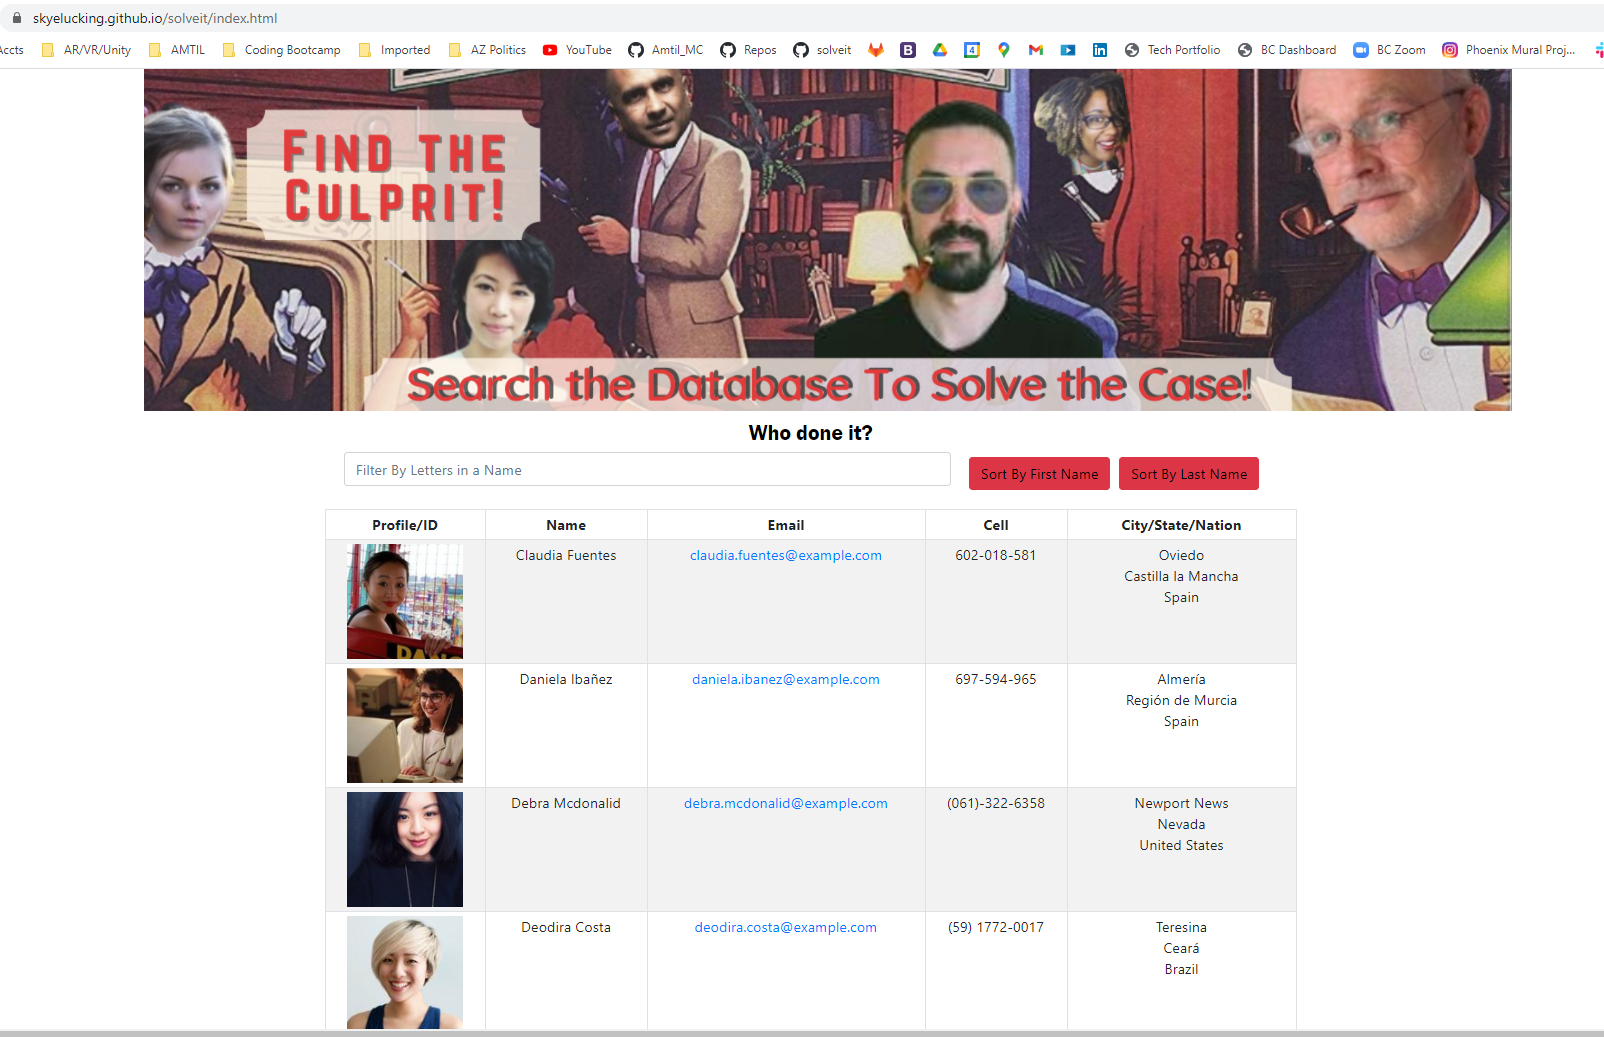
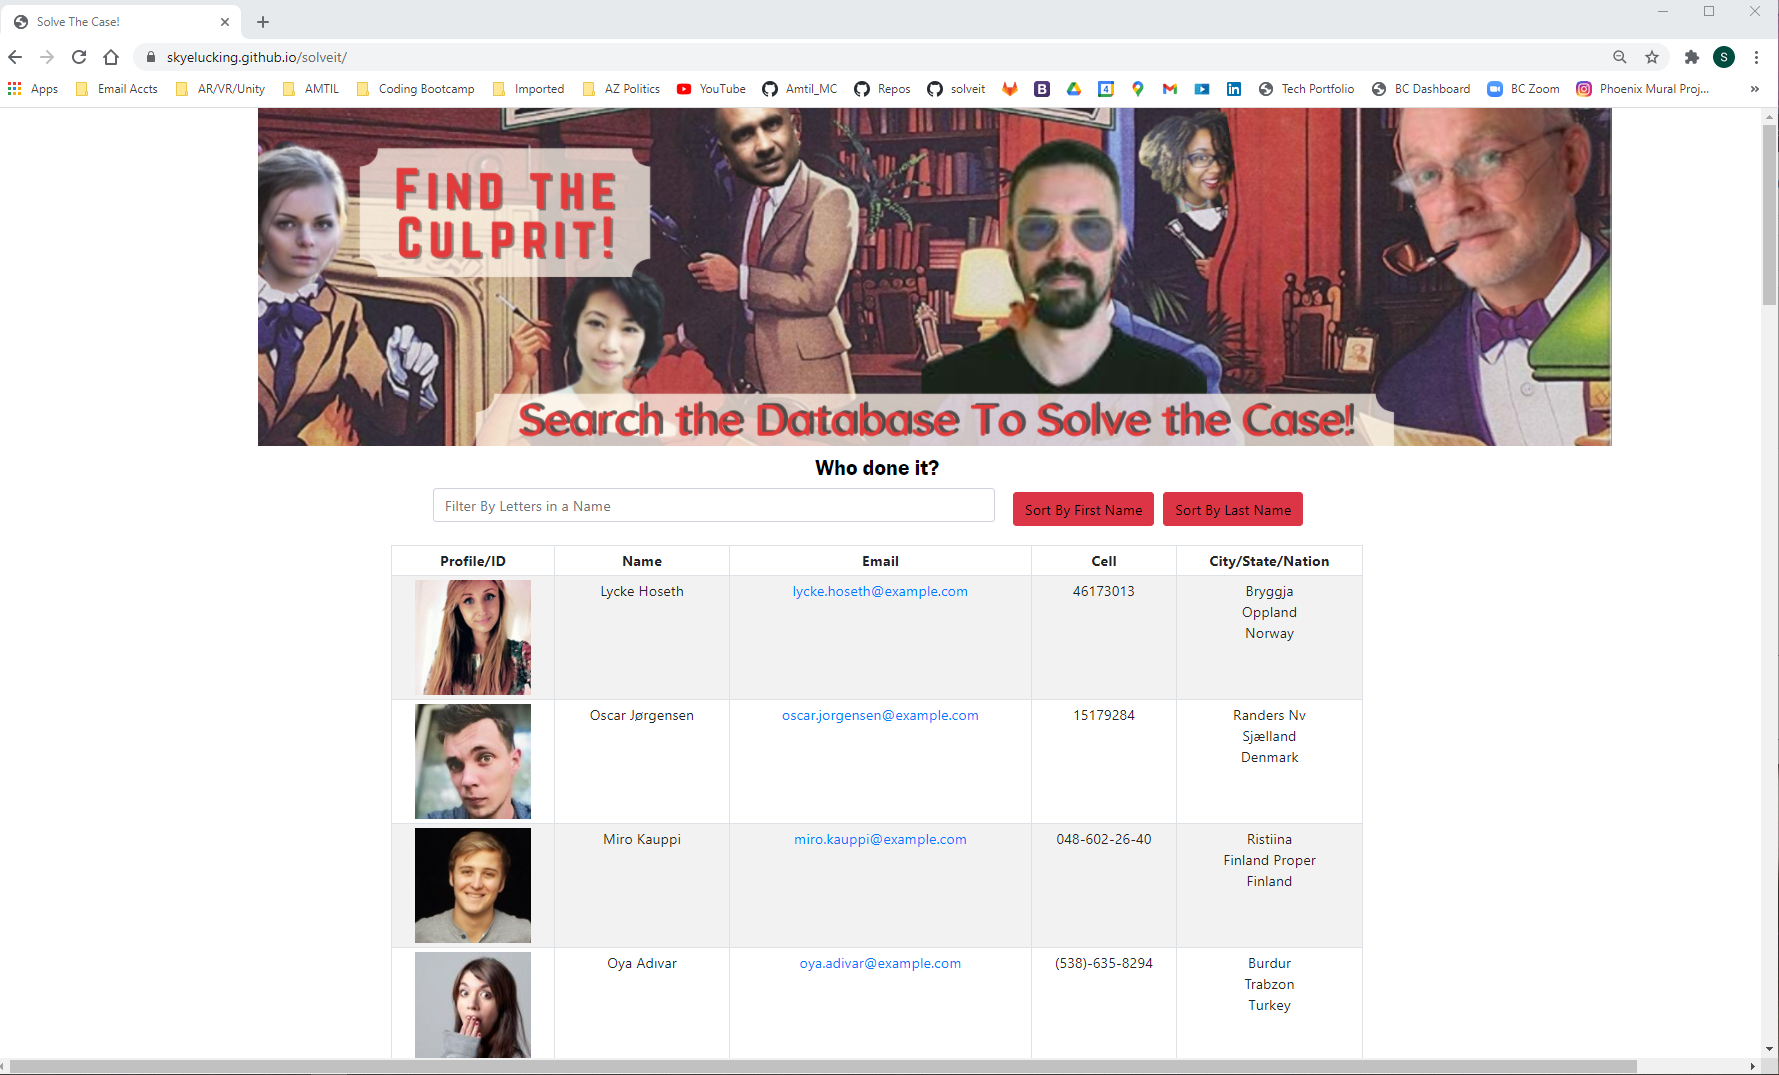
Updates

diff --git a/static/js/main.1ecd99c8.chunk.js b/static/js/main.1ecd99c8.chunk.js
@@ -1,0 +1,2 @@
+(this.webpackJsonpsolveit=this.webpackJsonpsolveit||[]).push([[0],{26:function(e,t,s){},27:function(e,t,s){},29:function(e,t,s){},49:function(e,t,s){"use strict";s.r(t);var r=s(1),a=s(17),n=s.n(a),c=(s(26),s(27),s(18)),i=s(19),o=s(21),l=s(20),h=(s(28),s(51)),j=s(52),d=(s(29),s(0));var u=function(e){var t=["Kitchen","Hall","Ballroom","Conservatory","Dining Room","Cellar","Billiard Room","Library","Lounge"],s=(Math.floor(Math.random()*t.length),["Knife","Candlestick","Revolver","Rope","Lead Pipe","Wrench"]),r=(Math.floor(Math.random()*s.length),e.suspects);return console.log(e),r.length?Object(d.jsx)("div",{className:"Table",children:Object(d.jsx)(h.a,{style:{color:"#000",textAlign:"center",alignItems:"center",display:"block"},children:Object(d.jsxs)(j.a,{striped:!0,bordered:!0,hover:!0,size:"sm",children:[Object(d.jsx)("thead",{children:Object(d.jsxs)("tr",{children:[Object(d.jsx)("th",{children:"Profile/ID"}),Object(d.jsx)("th",{children:"Name"}),Object(d.jsx)("th",{children:"Email"}),Object(d.jsx)("th",{children:"Cell"}),Object(d.jsx)("th",{children:"City/State/Nation"})]})}),Object(d.jsx)("tbody",{children:r.sort().map((function(e){return Object(d.jsxs)("tr",{children:[Object(d.jsxs)("td",{children:[Object(d.jsx)("img",{src:e.picture.large}),e.uuid]}),Object(d.jsxs)("td",{children:[e.name.first," ",e.name.last]}),Object(d.jsx)("td",{children:Object(d.jsx)("a",{href:"mailto:{suspect.email}",children:e.email})}),Object(d.jsx)("td",{children:e.cell}),Object(d.jsxs)("td",{children:[e.location.city,Object(d.jsx)("br",{}),e.location.state,Object(d.jsx)("br",{})," ",e.location.country,Object(d.jsx)("br",{})]})]})}))})]})})}):Object(d.jsx)("div",{children:"loading..."})},b=s(8),m=s.n(b),f="https://randomuser.me/api/?results=25",x={search:function(){return console.log(m.a.get(f)),m.a.get(f)}},O=function(e){Object(o.a)(s,e);var t=Object(l.a)(s);function s(){var e;Object(c.a)(this,s);for(var r=arguments.length,a=new Array(r),n=0;n<r;n++)a[n]=arguments[n];return(e=t.call.apply(t,[this].concat(a))).state={suspects:[],searchArray:[],search:"",sorted:!1},e.sortByFirstName=function(){var t,s=e.state,r=s.suspects,a=s.sorted,n=s.searchArray;!n===[]&&(t=n),t=a?r.sort((function(e,t){return t.name.first>e.name.first?1:t.name.first<e.name.first?-1:0})):r.sort((function(e,t){return e.name.first>t.name.first?1:e.name.first<t.name.first?-1:0})),e.setState({searchArray:t,sorted:!a,suspects:r})},e.sortByLastName=function(){var t,s=e.state,r=s.suspects,a=s.sorted,n=s.searchArray;!n===[]&&(t=n),t=a?r.sort((function(e,t){return t.name.last>e.name.last?1:t.name.last<e.name.last?-1:0})):r.sort((function(e,t){return e.name.last>t.name.last?1:e.name.last<t.name.last?-1:0})),e.setState({searchArray:t,sorted:!a,suspects:r})},e.handleSearch=function(t){var s=t.target.value.toLowerCase();e.setState({search:s})},e.searchBar=function(){var t=e.state.suspects,s=[];s===[]&&(s=t);for(var r=0;r<t.length;r++)t[r].name.first.toLowerCase().startsWith(e.state.Search)&&s.push(t[r]);e.setState({searchArray:s})},e}return Object(i.a)(s,[{key:"componentDidMount",value:function(){var e=this;x.search().then((function(t){console.log(t.data.results),e.setState({suspects:t.data.results,searchArray:t.data.results})}))}},{key:"render",value:function(){var e=this.state,t=e.suspects,s=void 0===t?[]:t,r=e.search;return console.log(s),Object(d.jsxs)("div",{children:[Object(d.jsx)("header",{children:Object(d.jsx)("h1",{style:{textAlign:"center",fontSize:"1.5em",fontFamily:"Franklin Gothic Medium",color:"black"},children:"Who done it?"})}),Object(d.jsxs)("div",{className:"row input-group mb-3 justify-content-center",children:[Object(d.jsx)("div",{className:"col-sm-4",children:Object(d.jsx)("input",{className:"form-control",type:"text",placeholder:"Filter By Letters in a Name","area-lable":"search suspects",onChange:this.handleSearch})}),Object(d.jsxs)("button",{className:"btn btn-danger",onClick:this.sortByFirstName,style:{color:"#000",margin:"5px"},children:[" ","Sort By First Name"]}),Object(d.jsxs)("button",{className:"btn btn-danger",onClick:this.sortByLastName,style:{color:"#000",margin:"5px"},children:[" ","Sort By Last Name"]})]}),Object(d.jsx)("div",{className:"container justify-content-center",children:Object(d.jsx)(u,{suspects:s.filter((function(e){return!r||(-1!==e.name.first.toLowerCase().indexOf(r)||-1!==e.name.last.toLowerCase().indexOf(r))}))})})]})}}]),s}(r.Component);var p=function(){return Object(d.jsxs)(d.Fragment,{children:[Object(d.jsx)("div",{styles:{backgroundImage:"/assets/board.jpg "}}),Object(d.jsx)("header",{children:Object(d.jsx)("img",{src:"https://skyelucking.github.io/solveit/assets/solve_header.png",class:"App-header"})}),Object(d.jsx)("div",{children:Object(d.jsx)(O,{})})]})};n.a.render(Object(d.jsx)(p,{}),document.getElementById("root"))}},[[49,1,2]]]);
+//# sourceMappingURL=main.1ecd99c8.chunk.js.map

diff --git a/index.html b/index.html
@@ -1,1 +1,1 @@
-<!doctype html><html lang="en"><head><meta charset="utf-8"/><meta name="viewport" content="width=device-width,initial-scale=1"/><meta name="theme-color" content="#000000"/><meta name="description" content="Web site created using create-react-app"/><title>Solve The Case!</title><link href="/solveit/static/css/2.4c97ca4f.chunk.css" rel="stylesheet"><link href="/solveit/static/css/main.04fbe6ba.chunk.css" rel="stylesheet"></head><body><noscript>You need to enable JavaScript to run this app.</noscript><div id="root"></div><script>!function(e){function t(t){for(var n,l,i=t[0],f=t[1],a=t[2],c=0,s=[];c<i.length;c++)l=i[c],Object.prototype.hasOwnProperty.call(o,l)&&o[l]&&s.push(o[l][0]),o[l]=0;for(n in f)Object.prototype.hasOwnProperty.call(f,n)&&(e[n]=f[n]);for(p&&p(t);s.length;)s.shift()();return u.push.apply(u,a||[]),r()}function r(){for(var e,t=0;t<u.length;t++){for(var r=u[t],n=!0,i=1;i<r.length;i++){var f=r[i];0!==o[f]&&(n=!1)}n&&(u.splice(t--,1),e=l(l.s=r[0]))}return e}var n={},o={1:0},u=[];function l(t){if(n[t])return n[t].exports;var r=n[t]={i:t,l:!1,exports:{}};return e[t].call(r.exports,r,r.exports,l),r.l=!0,r.exports}l.m=e,l.c=n,l.d=function(e,t,r){l.o(e,t)||Object.defineProperty(e,t,{enumerable:!0,get:r})},l.r=function(e){"undefined"!=typeof Symbol&&Symbol.toStringTag&&Object.defineProperty(e,Symbol.toStringTag,{value:"Module"}),Object.defineProperty(e,"__esModule",{value:!0})},l.t=function(e,t){if(1&t&&(e=l(e)),8&t)return e;if(4&t&&"object"==typeof e&&e&&e.__esModule)return e;var r=Object.create(null);if(l.r(r),Object.defineProperty(r,"default",{enumerable:!0,value:e}),2&t&&"string"!=typeof e)for(var n in e)l.d(r,n,function(t){return e[t]}.bind(null,n));return r},l.n=function(e){var t=e&&e.__esModule?function(){return e.default}:function(){return e};return l.d(t,"a",t),t},l.o=function(e,t){return Object.prototype.hasOwnProperty.call(e,t)},l.p="/solveit/";var i=this.webpackJsonpsolveit=this.webpackJsonpsolveit||[],f=i.push.bind(i);i.push=t,i=i.slice();for(var a=0;a<i.length;a++)t(i[a]);var p=f;r()}([])</script><script src="/solveit/static/js/2.861312c8.chunk.js"></script><script src="/solveit/static/js/main.86a9a204.chunk.js"></script></body></html>
+<!doctype html><html lang="en"><head><meta charset="utf-8"/><meta name="viewport" content="width=device-width,initial-scale=1"/><meta name="theme-color" content="#000000"/><meta name="description" content="Web site created using create-react-app"/><title>Solve The Case!</title><link href="/solveit/static/css/2.4c97ca4f.chunk.css" rel="stylesheet"><link href="/solveit/static/css/main.04fbe6ba.chunk.css" rel="stylesheet"></head><body><noscript>You need to enable JavaScript to run this app.</noscript><div id="root"></div><script>!function(e){function t(t){for(var n,l,i=t[0],f=t[1],a=t[2],c=0,s=[];c<i.length;c++)l=i[c],Object.prototype.hasOwnProperty.call(o,l)&&o[l]&&s.push(o[l][0]),o[l]=0;for(n in f)Object.prototype.hasOwnProperty.call(f,n)&&(e[n]=f[n]);for(p&&p(t);s.length;)s.shift()();return u.push.apply(u,a||[]),r()}function r(){for(var e,t=0;t<u.length;t++){for(var r=u[t],n=!0,i=1;i<r.length;i++){var f=r[i];0!==o[f]&&(n=!1)}n&&(u.splice(t--,1),e=l(l.s=r[0]))}return e}var n={},o={1:0},u=[];function l(t){if(n[t])return n[t].exports;var r=n[t]={i:t,l:!1,exports:{}};return e[t].call(r.exports,r,r.exports,l),r.l=!0,r.exports}l.m=e,l.c=n,l.d=function(e,t,r){l.o(e,t)||Object.defineProperty(e,t,{enumerable:!0,get:r})},l.r=function(e){"undefined"!=typeof Symbol&&Symbol.toStringTag&&Object.defineProperty(e,Symbol.toStringTag,{value:"Module"}),Object.defineProperty(e,"__esModule",{value:!0})},l.t=function(e,t){if(1&t&&(e=l(e)),8&t)return e;if(4&t&&"object"==typeof e&&e&&e.__esModule)return e;var r=Object.create(null);if(l.r(r),Object.defineProperty(r,"default",{enumerable:!0,value:e}),2&t&&"string"!=typeof e)for(var n in e)l.d(r,n,function(t){return e[t]}.bind(null,n));return r},l.n=function(e){var t=e&&e.__esModule?function(){return e.default}:function(){return e};return l.d(t,"a",t),t},l.o=function(e,t){return Object.prototype.hasOwnProperty.call(e,t)},l.p="/solveit/";var i=this.webpackJsonpsolveit=this.webpackJsonpsolveit||[],f=i.push.bind(i);i.push=t,i=i.slice();for(var a=0;a<i.length;a++)t(i[a]);var p=f;r()}([])</script><script src="/solveit/static/js/2.861312c8.chunk.js"></script><script src="/solveit/static/js/main.1ecd99c8.chunk.js"></script></body></html>
